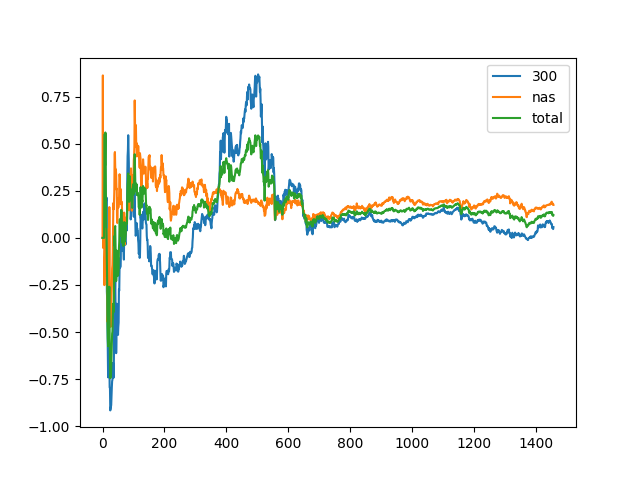
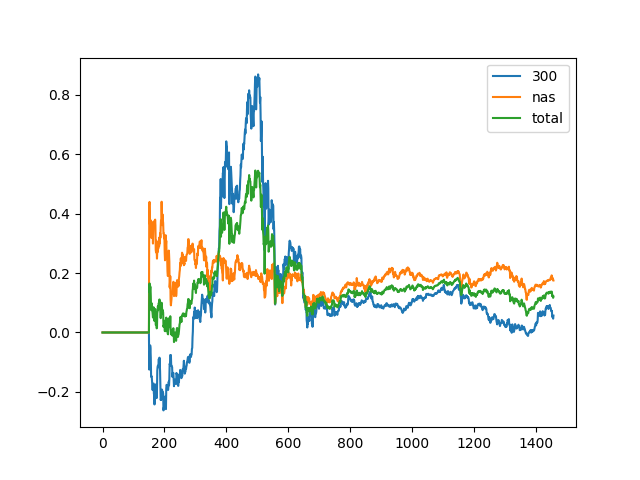
将计算回测指标的程序并入交易模拟类中，但计算结果貌似还有问题，300etf的最大回撤值居然是inf。好歹框架搭起来了，具体再看有没有bug，再改吧。

diff --git a/Simulater2.py b/Simulater2.py
@@ -11,6 +11,7 @@ import xirr_cal as xirr
 import datetime
 import GetHistoryData
 import copy
+import BacktestIndex as BTI
 
 """
 模拟交易类
@@ -37,6 +38,7 @@ totalCashFlow: 总现金流量表
 totalCashDate: 总现金流量发生日期
 totalXirr: 总年化收益率
 money_rem: 每次交易剩下的钱
+testIndex: 回测指标
 """
 class simulater(object):
     def __init__(self, money, data, totalTimes, freq, feeRate):
@@ -63,6 +65,7 @@ class simulater(object):
         self.totalCashDate = []
         self.totalXirr = [0] * self.totalTimes
         self.money_rem = [0.0, 0.0]
+        self.testIndex = None
         
         
     # 计算交易手续费
@@ -216,10 +219,13 @@ class simulater(object):
         
     # 计算回测指标
     def index(self, data):
-        # getindex = getIndex.getIndex(data)
-        # getindex.max_drawdownRate()
-        # print("最大回撤:%2f" % getindex.md)
-        pass
+        # 先整理数据，市场基准数据用300etf
+        testdata = {"市场":self.xirr[0], "策略":data}
+        InputData = pd.DataFrame(testdata)
+        tester = BTI.GetIndex(InputData)
+        result = tester.run()
+        print(result)
+        self.testIndex = result
         
         
     # 用xirr计算年化收益率
@@ -233,7 +239,8 @@ class simulater(object):
             self.cashDate[code].append(date)
             retXIRR = xirr.xirr(self.cashFlow[code], self.cashDate[code])
             # 开始的时候会出现无限大的值，所以加这个
-            if retXIRR >= 1.0 or  retXIRR <= -1.0:
+            # 画图得知，前150天数据不靠谱，都设成0吧
+            if days <= 150:
                 retXIRR = 0.0
             self.xirr[code][days] = retXIRR
             self.cashFlow[code].pop()
@@ -241,12 +248,16 @@ class simulater(object):
         self.totalCashFlow.append(v)
         self.totalCashDate.append(date)
         totalXIRR = xirr.xirr(self.totalCashFlow, self.totalCashDate)
-        if totalXIRR >= 1.0 or  totalXIRR <= -1.0:
-                totalXIRR = 0.0
+        if days <= 150:
+            totalXIRR = 0.0
         self.totalXirr[days] = totalXIRR
         self.totalCashFlow.pop()
         self.totalCashDate.pop()
         
+        
+    # 获取回测数据
+    def GetIndex(self):
+        return self.testIndex
     
         
     # 交易循环
@@ -264,7 +275,7 @@ class simulater(object):
             #print(self.cashFlow, self.cashDate)
         # print(self.xirr[0])
         self.draw()
-        self.index(self.totalRate)
+        self.index(self.totalXirr)
         
         
 if __name__ == "__main__":

diff --git a/BacktestIndex.py b/BacktestIndex.py
@@ -9,12 +9,11 @@ from scipy import stats
 
 class GetIndex(object):
     # data: 策略每天的年化收益率
-    # 有两列策略，
+    # 有两列数据，
     # 一列为市场，市场的基准收益，
     # 一列为策略，为我们的策略收益
     def __init__(self, data):
         self.data = data    #每天的年化收益率
-        # self.AR = pd.DataFrame(data["策略"].values[-1], columns=["年化收益率"], index=data["策略"].index)
         self.MD = 0.0 #最大回撤
         self.AB = 0.0 #αβ值
         self.SHR = 0.0 #夏普比例
@@ -34,10 +33,9 @@ class GetIndex(object):
         x = self.data["市场"].values
         y = self.data["策略"].values
         b,a,r_value,p_value,std_err=stats.linregress(x, y)        
-        self.AB = pd.DataFrame()
-        self.AB["alpha"] = [a]
+        self.AB = pd.DataFrame([a], columns = ["alpha"], index = ["策略"])
         self.AB["beta"] = [b]
-        print(a,b)
+        print(self.AB)
         return self.AB
         
         
@@ -55,7 +53,7 @@ class GetIndex(object):
         ex_return = pd.DataFrame()
         ex_return = self.data.iloc[:,1] - self.data.iloc[:,0]
         information=np.sqrt(len(ex_return))*ex_return.mean()/ex_return.std()
-        self.INR=pd.DataFrame([information],columns=['信息比率'])
+        self.INR=pd.DataFrame([information],columns=['信息比率'], index = ["策略"])
         return self.INR
         
         
@@ -72,6 +70,10 @@ class GetIndex(object):
         self.sharp()
         self.information()
         self.combine()
+        print(self.MD)
+        print(self.AB)
+        print(self.SHR)
+        print(self.INR)
         return self.indicators
 
 
